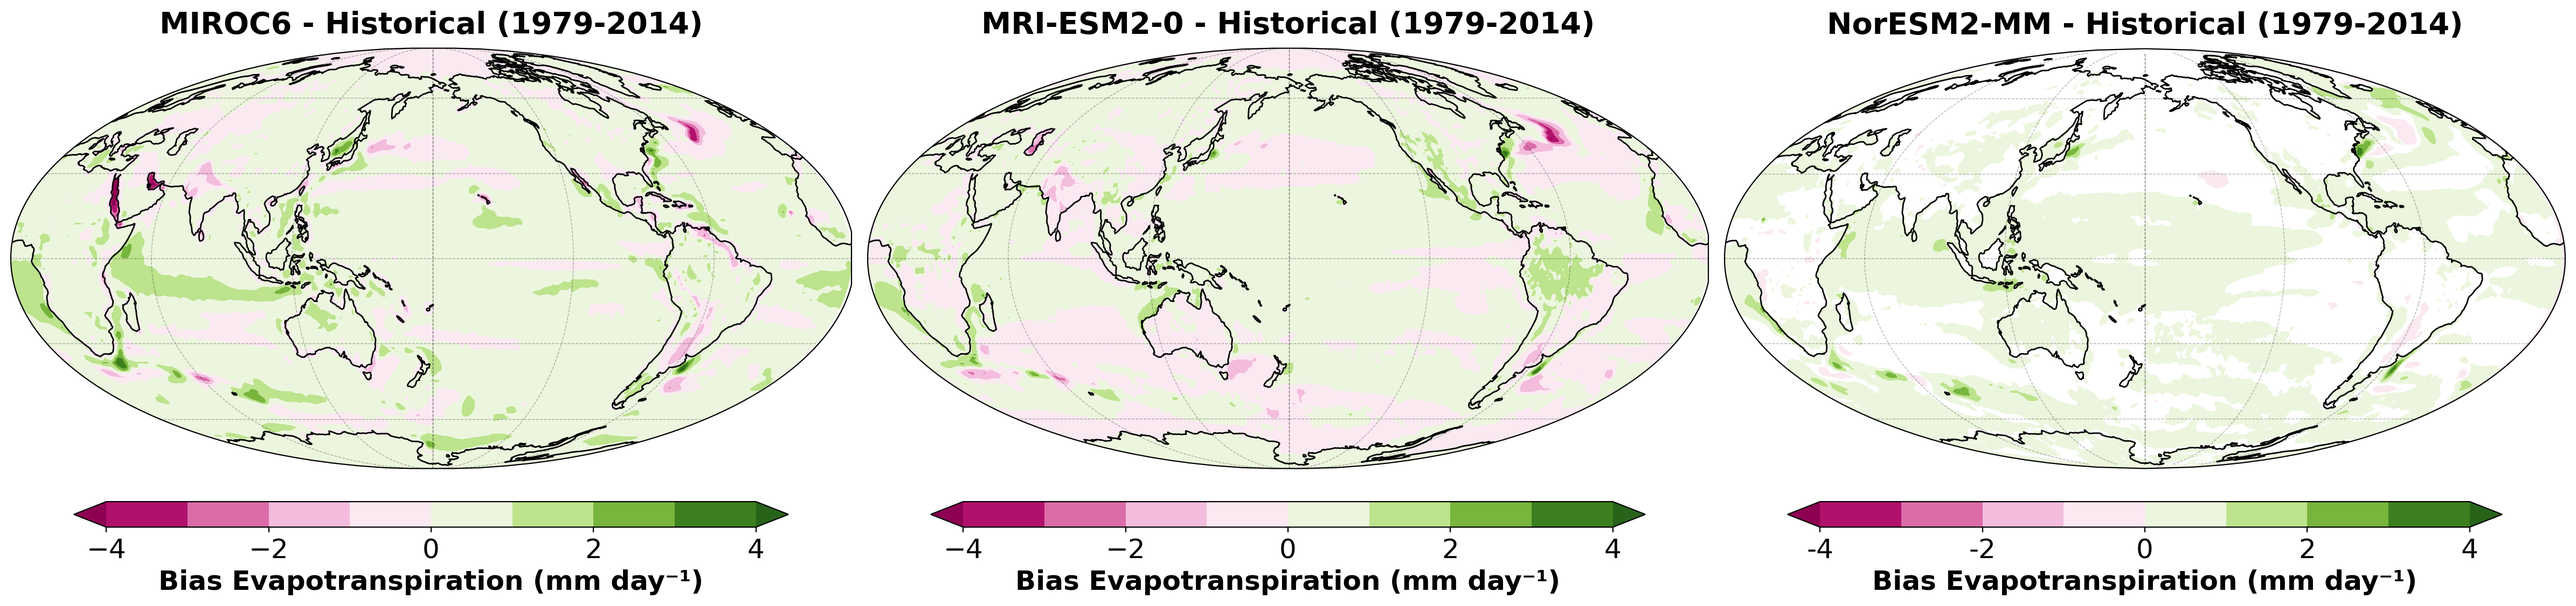
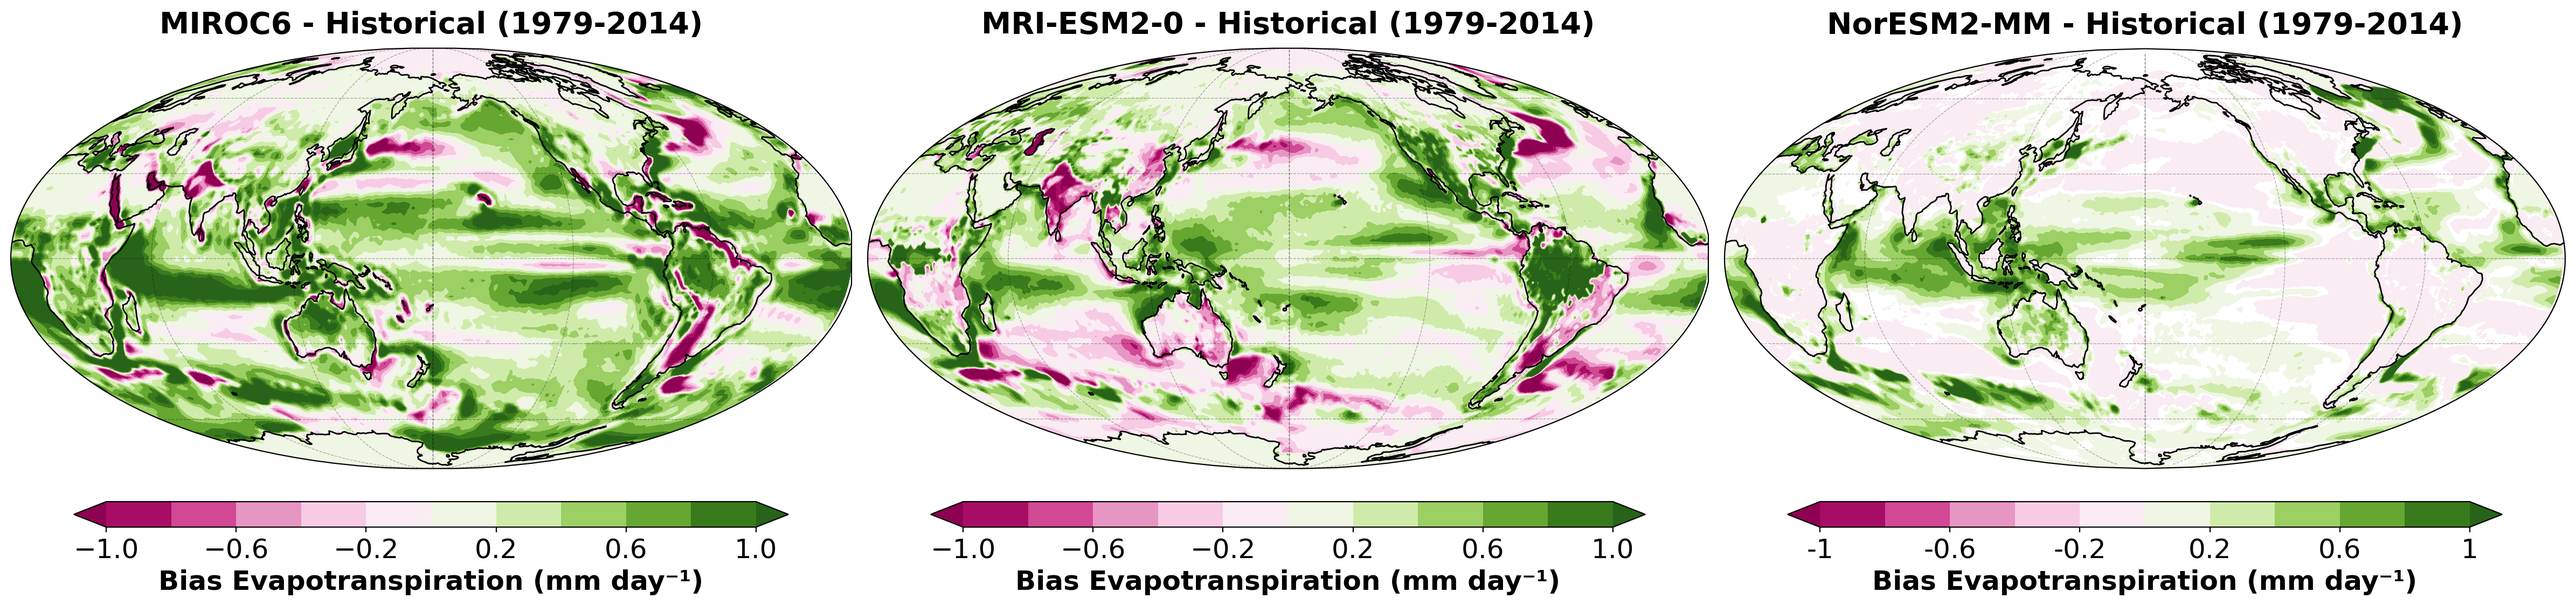
Fixed ranges for the bias maps

diff --git a/scripts/models_bias.py b/scripts/models_bias.py
@@ -21,19 +21,19 @@ variables = {
         "title_cbar": "Bias Surface Air Temperature (K)",
         "cmap": "RdBu_r",
         "out": out_dir / "bias_t2m.png",
-        "vmin": -8, "vmax": 8, "step": 2,
+        "vmin": -2, "vmax": 2, "step": 0.25,
     },
     "tp": {
         "title_cbar": "Bias Precipitation (mm day⁻¹)",
         "cmap": "BrBG",
         "out": out_dir / "bias_tp.png",
-        "vmin": -8, "vmax": 8, "step": 2,
+        "vmin": -3, "vmax": 3, "step": 0.5,
     },
     "e": {
         "title_cbar": "Bias Evapotranspiration (mm day⁻¹)",
         "cmap": "PiYG",
         "out": out_dir / "bias_e.png",
-        "vmin": -4, "vmax": 4, "step": 1,
+        "vmin": -1, "vmax": 1, "step": 0.2,
     },
 }
 
